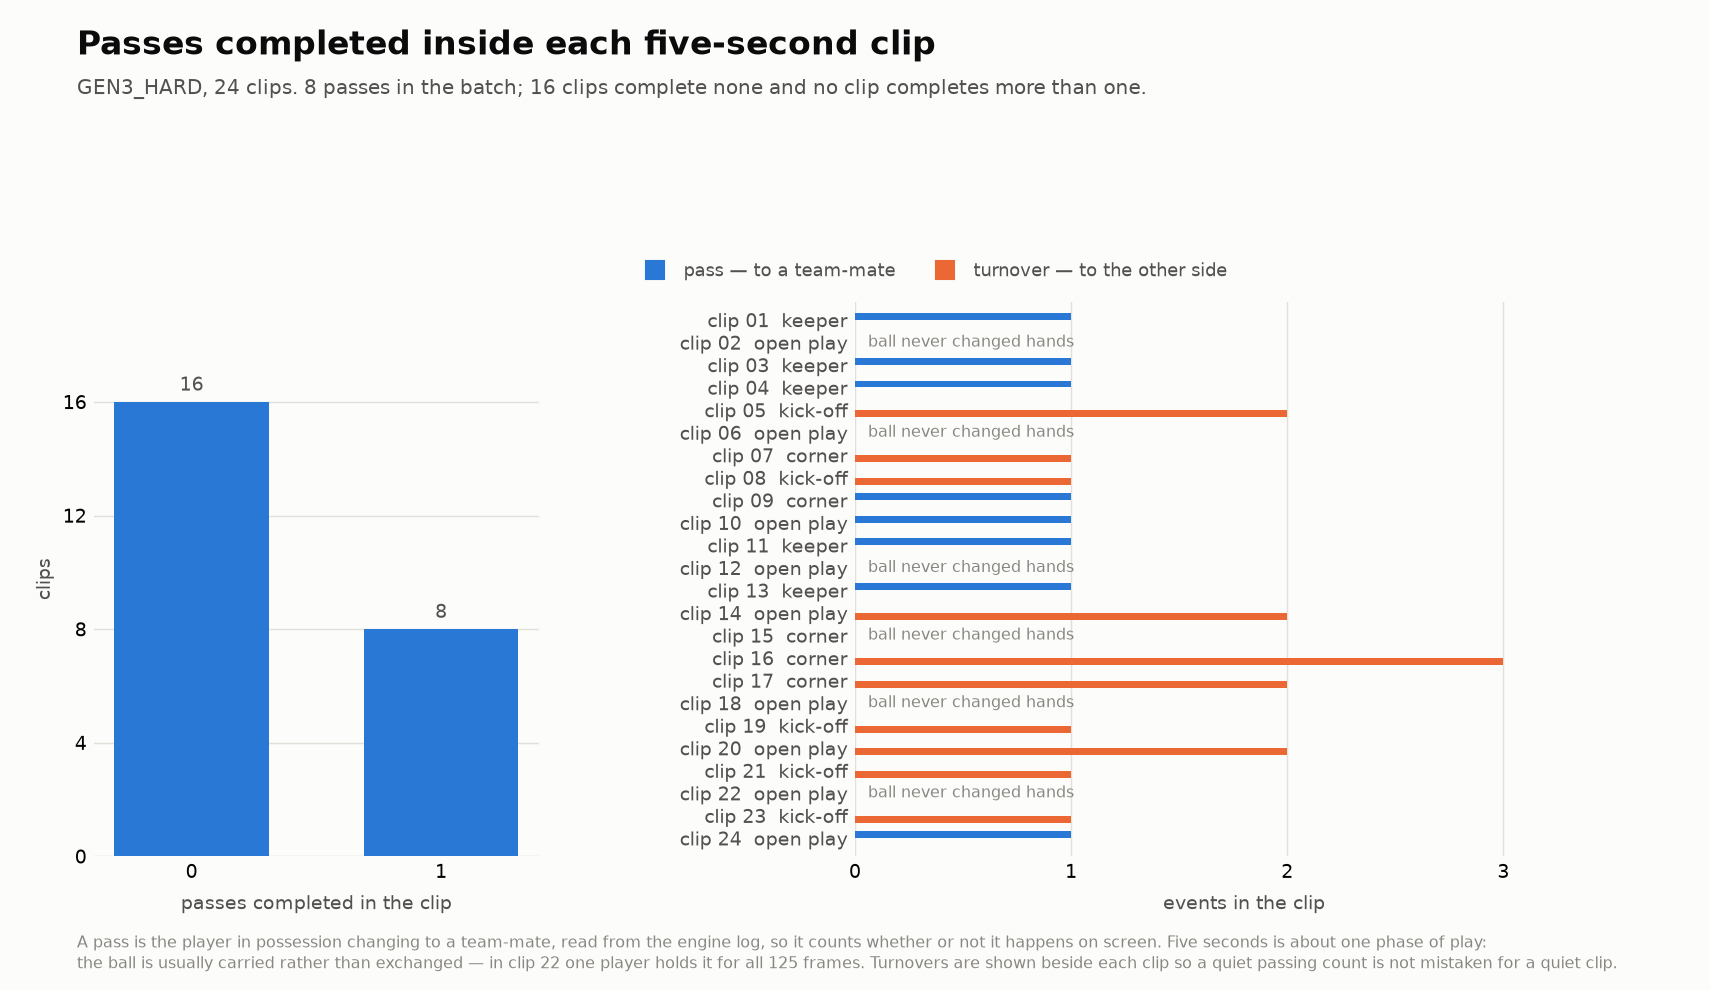
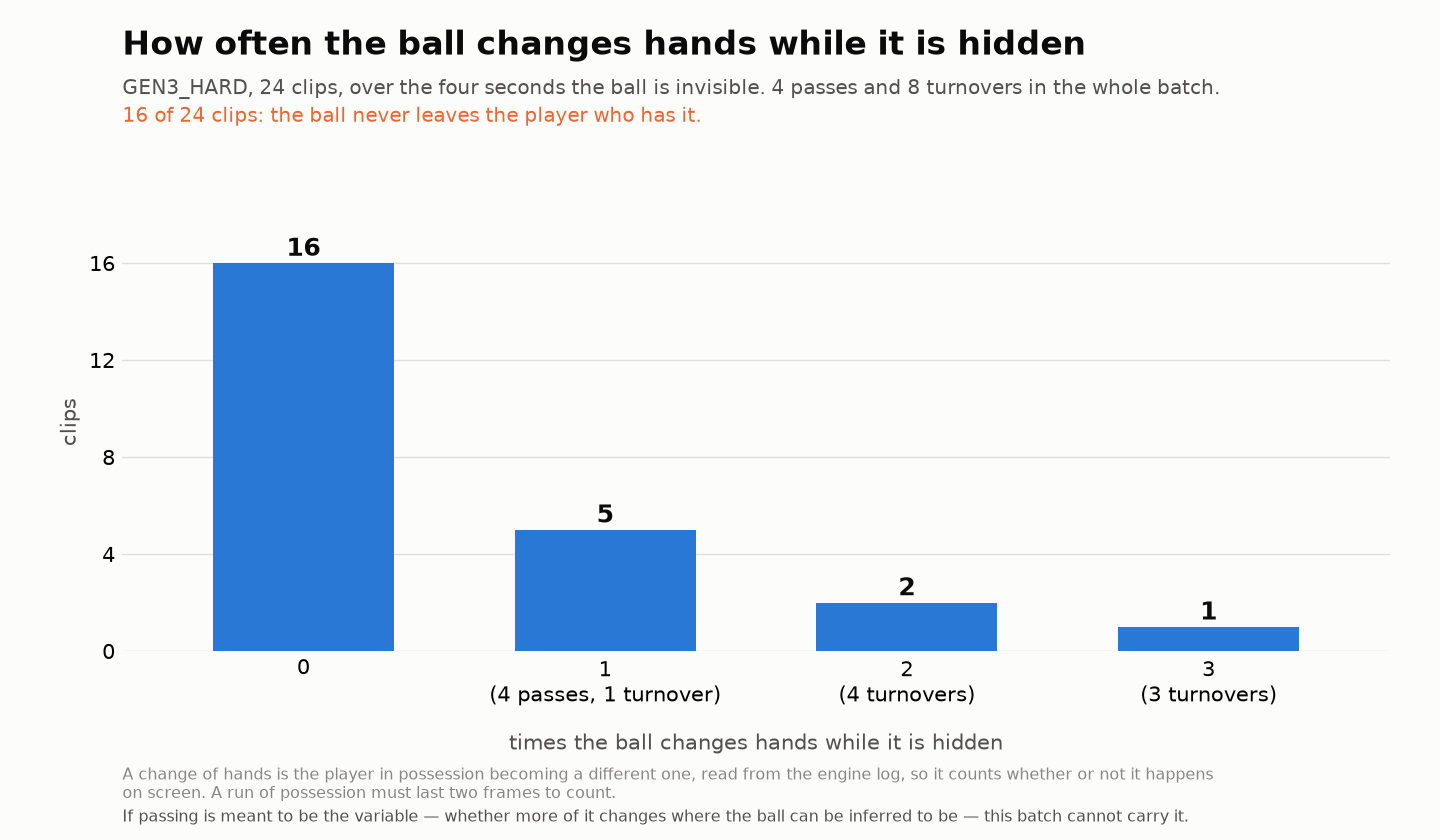
GEN3_HARD: count changes of hands over the HIDDEN window, not the whole clip
The chart exists to serve a research question — does passing change where the
ball can be inferred to be — and that reframes what to measure. The inference
happens across the four seconds the ball is invisible, so the count is taken
over those, not over the whole five.

Measured there: 4 passes and 8 turnovers in the entire batch, and 16 of 24 clips
in which the ball never leaves the player holding it.

That is the finding, and it is about the batch rather than the chart: a variable
that is zero in two thirds of the sample cannot be regressed against anything,
so this batch cannot carry the experiment. Checked against a second definition
too — detecting the ball being struck from its acceleration — which agrees.

diff --git a/GEN3_HARD/review_passes.py b/GEN3_HARD/review_passes.py
@@ -1,24 +1,25 @@
-"""review_passes.py — how much passing happens inside a five-second clip.
+"""review_passes.py — how often the ball changes hands while it is hidden.
 
-Writes `_review/passes.png`.
+Writes `_review/passes.png` and `_review/passes.csv`.
 
-WHAT A PASS IS HERE
-  The sweep log names the player in possession on every frame. A PASS is that name moving
-  between two players of the SAME side; a TURNOVER is it moving to the other side. Both
-  are read off the log, which is camera-independent, so a pass counts whether or not it
-  happens on screen.
+WHY THE HIDDEN WINDOW AND NOT THE WHOLE CLIP
+  The benchmark shows one second of visible ball and hides it for four. Whatever a model
+  or a person has to reason about happens in those four seconds, so that is the interval
+  the count is taken over. Over the whole five it is a different and less useful number.
 
-  A run of possession is only counted once it has lasted two frames. Without that, a ball
-  brushing past a player registers as a touch and the count inflates.
+WHAT COUNTS AS A CHANGE OF HANDS
+  The engine log names the player in possession on every frame. A change is that name
+  moving to a different player: to a TEAM-MATE is a pass, to the other side is a turnover.
+  A possession run has to last two frames before it counts, or a ball brushing past a
+  player registers as a touch and the count inflates.
 
-WHY THE NUMBERS ARE SMALL, AND WHY THAT IS THE ANSWER RATHER THAN A BUG
-  Five seconds is about one phase of play. Measured across the batch, the ball is usually
-  carried rather than exchanged — clip_22 has a single player in possession for all 125
-  frames — so most clips complete no pass at all and none completes more than one. The
-  chart therefore leads with the distribution, which is the honest shape of it, and puts
-  the per-clip detail beside it with turnovers included: a clip with no pass is not
-  necessarily a clip where nothing happened.
+THE NUMBER THIS IS REALLY REPORTING
+  Passing is almost absent: over the hidden window the batch completes 4 passes in total.
+  If passing is meant to be an independent variable — does more of it change where the
+  ball can be inferred to be — this batch cannot carry the experiment, and the histogram
+  is the clearest way to see why.
 """
+import csv
 import json
 import sys
 from collections import Counter
@@ -33,48 +34,41 @@ import gen3_lib as G                                                  # noqa: E4
 
 REVIEW = HERE / "_review"
 PICKS = G.CACHE / "picks.json"
-MIN_HOLD = 2                # frames of possession before a touch is real
+VIS = G.VIS_FRAMES          # visible for frames 0..VIS-1, hidden after
+MIN_HOLD = 2                # frames a player must hold the ball for it to count
 
 SURFACE = "#fcfcfb"
 INK = "#0b0b0b"
 INK2 = "#52514e"
 MUTED = "#898781"
 GRID = "#e1e0d9"
-S1 = "#2a78d6"          # categorical slot 1 — passes
-S2 = "#eb6834"          # categorical slot 2 — turnovers
-KIND_NAME = {"corner": "corner", "gk_throw": "keeper", "kickoff": "kick-off",
-             "open": "open play"}
-
-
-def possession_runs(log, s, e):
-    """(team, player) in possession, in order, once each run has held MIN_HOLD frames."""
-    runs, cur, n = [], None, 0
-    for t, p in zip(log["owned_team"][s:e], log["owned_player"][s:e]):
-        if t < 0:
-            cur, n = None, 0            # loose ball: the run ends, nothing is recorded
-            continue
-        key = (int(t), int(p))
-        if key == cur:
-            n += 1
-            if n == MIN_HOLD:
-                runs.append(key)
-        else:
-            cur, n = key, 1
-    return runs
+S1 = "#2a78d6"          # categorical slot 1 — passes, to a team-mate
+S2 = "#eb6834"          # categorical slot 2 — turnovers, to the other side
 
 
 def measure():
     out = []
     for p in json.loads(PICKS.read_text()):
         z = np.load(G.SWEEP / f"{p['match']}.npz")
-        runs = possession_runs({k: z[k] for k in z.files}, p["start"], p["end"])
-        pairs = list(zip(runs, runs[1:]))
-        out.append({
-            "clip": p["clip"], "kind": p["kind"],
-            "passes": sum(1 for a, b in pairs if a[0] == b[0] and a[1] != b[1]),
-            "turnovers": sum(1 for a, b in pairs if a[0] != b[0]),
-            "touches": len(runs),
-        })
+        s, e = p["start"], p["end"]
+        ot, op = z["owned_team"][s:e], z["owned_player"][s:e]
+        runs, cur, n = [], None, 0
+        for t, pl in zip(ot[VIS - 1:], op[VIS - 1:]):
+            if t < 0:
+                cur, n = None, 0
+                continue
+            key = (int(t), int(pl))
+            if key == cur:
+                n += 1
+                if n == MIN_HOLD:
+                    runs.append(key)
+            else:
+                cur, n = key, 1
+        pairs = [(a, b) for a, b in zip(runs, runs[1:]) if a != b]
+        out.append({"clip": p["clip"], "situation": p["kind"],
+                    "passes": sum(1 for a, b in pairs if a[0] == b[0]),
+                    "turnovers": sum(1 for a, b in pairs if a[0] != b[0]),
+                    "changes": len(pairs)})
     return sorted(out, key=lambda r: r["clip"])
 
 
@@ -86,90 +80,79 @@ def chart(rows):
     plt.rcParams.update({"font.family": "sans-serif", "figure.facecolor": SURFACE,
                          "savefig.facecolor": SURFACE, "text.color": INK,
                          "axes.facecolor": SURFACE})
-    fig = plt.figure(figsize=(11.4, 6.6), dpi=150)
+    xs = list(range(0, max(r["changes"] for r in rows) + 1))
+    # Each bar is split by what the changes in those clips were, so the bar height answers
+    # "how often does the ball change hands" and the colour answers "to whom" — which is
+    # the distinction the research question turns on.
+    passes = [sum(r["passes"] for r in rows if r["changes"] == x) for x in xs]
+    turns = [sum(r["turnovers"] for r in rows if r["changes"] == x) for x in xs]
+    clips = [sum(1 for r in rows if r["changes"] == x) for x in xs]
 
-    # ── the distribution: how many clips complete how many passes ──────────────
-    ax = fig.add_axes([0.055, 0.135, 0.26, 0.56])
-    hist = Counter(r["passes"] for r in rows)
-    xs = list(range(0, max(hist) + 1))
-    ys = [hist.get(x, 0) for x in xs]
-    ax.bar(xs, ys, width=0.62, color=S1)
-    for x, y in zip(xs, ys):
-        if y:
-            ax.text(x, y + 0.4, str(y), ha="center", fontsize=9, color=INK2)
-    ax.set_xticks(xs, [str(x) for x in xs], fontsize=9.5)
-    ax.set_xlabel("passes completed in the clip", fontsize=9, color=INK2, labelpad=6)
-    ax.set_ylabel("clips", fontsize=9, color=INK2)
-    ax.set_ylim(0, max(ys) * 1.22)
-    ax.set_yticks(range(0, max(ys) + 2, 4))     # clips are whole things
+    fig = plt.figure(figsize=(9.6, 5.6), dpi=150)
+    ax = fig.add_axes([0.085, 0.225, 0.88, 0.545])
+    ax.bar(xs, clips, width=0.6, color=S1)
+    for x, c in zip(xs, clips):
+        ax.text(x, c + 0.3, str(c), ha="center", fontsize=12, color=INK, weight="bold")
+    # The breakdown rides on the tick label rather than floating near the bar: a second
+    # line of text beside a bar collides with the axis the moment the bars are short.
+    labels = []
+    for x, np_, nt in zip(xs, passes, turns):
+        bits = []
+        if np_:
+            bits.append(f"{np_} pass" + ("es" if np_ > 1 else ""))
+        if nt:
+            bits.append(f"{nt} turnover" + ("s" if nt > 1 else ""))
+        # parenthesised, because "4 passes" under the bar at x=1 otherwise reads as
+        # "these clips had four passes each" rather than as the bar's composition
+        labels.append(f"{x}\n({', '.join(bits)})" if bits else str(x))
+    ax.set_xticks(xs, labels, fontsize=11)
+    ax.set_yticks(range(0, max(clips) + 3, 4))
+    ax.set_ylim(0, max(clips) * 1.18)
+    ax.set_xlim(-0.6, max(xs) + 0.6)
+    ax.set_xlabel("times the ball changes hands while it is hidden",
+                  fontsize=10, color=INK2, labelpad=12)
+    ax.set_ylabel("clips", fontsize=10, color=INK2)
     ax.yaxis.grid(True, color=GRID, lw=0.7)
     ax.set_axisbelow(True)
-    ax.tick_params(length=0, labelsize=9)
+    ax.tick_params(length=0, labelsize=10)
     for sp in ax.spines.values():
         sp.set_visible(False)
 
-    # ── the detail: which clips, and what else happened in them ────────────────
-    ax2 = fig.add_axes([0.50, 0.135, 0.455, 0.56])
-    y = np.arange(len(rows))[::-1]
-    for i, r in zip(y, rows):
-        ax2.barh(i + 0.16, r["passes"], height=0.30, color=S1)
-        ax2.barh(i - 0.16, r["turnovers"], height=0.30, color=S2)
-        if not r["passes"] and not r["turnovers"]:
-            ax2.text(0.06, i, "ball never changed hands", va="center", ha="left",
-                     fontsize=7.5, color=MUTED)
-    ax2.set_yticks(y, [f"{r['clip'].replace('clip_', 'clip ')}  {KIND_NAME[r['kind']]}"
-                       for r in rows], fontsize=7.5)
-    for t in ax2.get_yticklabels():
-        t.set_color(INK2)
-    ax2.set_xlim(0, max(max(r["passes"], r["turnovers"]) for r in rows) + 0.6)
-    ax2.set_ylim(-0.8, len(rows) - 0.2)
-    ax2.set_xticks(range(0, max(max(r["passes"], r["turnovers"]) for r in rows) + 1))
-    ax2.set_xlabel("events in the clip", fontsize=9, color=INK2, labelpad=6)
-    ax2.xaxis.grid(True, color=GRID, lw=0.7)
-    ax2.set_axisbelow(True)
-    ax2.tick_params(length=0, labelsize=9)
-    for sp in ax2.spines.values():
-        sp.set_visible(False)
-    handles = [plt.Line2D([], [], marker="s", ls="", ms=9, color=S1,
-                          label="pass — to a team-mate"),
-               plt.Line2D([], [], marker="s", ls="", ms=9, color=S2,
-                          label="turnover — to the other side")]
-    ax2.legend(handles=handles, ncol=2, loc="lower left", frameon=False, fontsize=8.5,
-               bbox_to_anchor=(-0.30, 1.01), labelcolor=INK2, handletextpad=0.6,
-               columnspacing=1.8)
-
-    tot = sum(r["passes"] for r in rows)
-    none = sum(1 for r in rows if not r["passes"])
-    fig.text(0.045, 0.945, "Passes completed inside each five-second clip",
+    tot_p = sum(r["passes"] for r in rows)
+    tot_t = sum(r["turnovers"] for r in rows)
+    fig.text(0.085, 0.935, "How often the ball changes hands while it is hidden",
              fontsize=16, color=INK, weight="bold")
-    fig.text(0.045, 0.905,
-             f"GEN3_HARD, 24 clips. {tot} passes in the batch; {none} clips complete "
-             "none and no clip completes more than one.",
+    fig.text(0.085, 0.888,
+             f"GEN3_HARD, 24 clips, over the four seconds the ball is invisible. "
+             f"{tot_p} passes and {tot_t} turnovers in the whole batch.",
              fontsize=9.5, color=INK2)
-    fig.text(0.045, 0.043,
-             "A pass is the player in possession changing to a team-mate, read from the "
-             "engine log, so it counts whether or not it happens on screen. Five seconds "
-             "is about one phase of play:",
+    fig.text(0.085, 0.855,
+             f"{clips[0]} of {len(rows)} clips: the ball never leaves the player who has "
+             "it.", fontsize=9.5, color=S2)
+    fig.text(0.085, 0.072,
+             "A change of hands is the player in possession becoming a different one, "
+             "read from the engine log, so it counts whether or not it happens",
              fontsize=7.5, color=MUTED)
-    fig.text(0.045, 0.022,
-             "the ball is usually carried rather than exchanged — in clip 22 one player "
-             "holds it for all 125 frames. Turnovers are shown beside each clip so a "
-             "quiet passing count is not mistaken for a quiet clip.",
+    fig.text(0.085, 0.050,
+             "on screen. A run of possession must last two frames to count.",
              fontsize=7.5, color=MUTED)
+    fig.text(0.085, 0.022,
+             "If passing is meant to be the variable — whether more of it changes where "
+             "the ball can be inferred to be — this batch cannot carry it.",
+             fontsize=7.5, color=INK2)
     out = REVIEW / "passes.png"
     fig.savefig(out)
     plt.close(fig)
-    print(f"wrote {out.relative_to(HERE)}  ({tot} passes over {len(rows)} clips)")
+    print(f"wrote {out.relative_to(HERE)}  ({tot_p} passes, {tot_t} turnovers, "
+          f"{clips[0]}/{len(rows)} clips with no change of hands)")
 
 
 if __name__ == "__main__":
     REVIEW.mkdir(exist_ok=True)
     rows = measure()
     chart(rows)
-    import csv
     with open(REVIEW / "passes.csv", "w", newline="") as fh:
-        w = csv.DictWriter(fh, fieldnames=["clip", "kind", "passes", "turnovers",
-                                           "touches"])
+        w = csv.DictWriter(fh, fieldnames=list(rows[0]))
         w.writeheader()
         w.writerows(rows)
-    print(f"wrote _review/passes.csv")
+    print("wrote _review/passes.csv")
